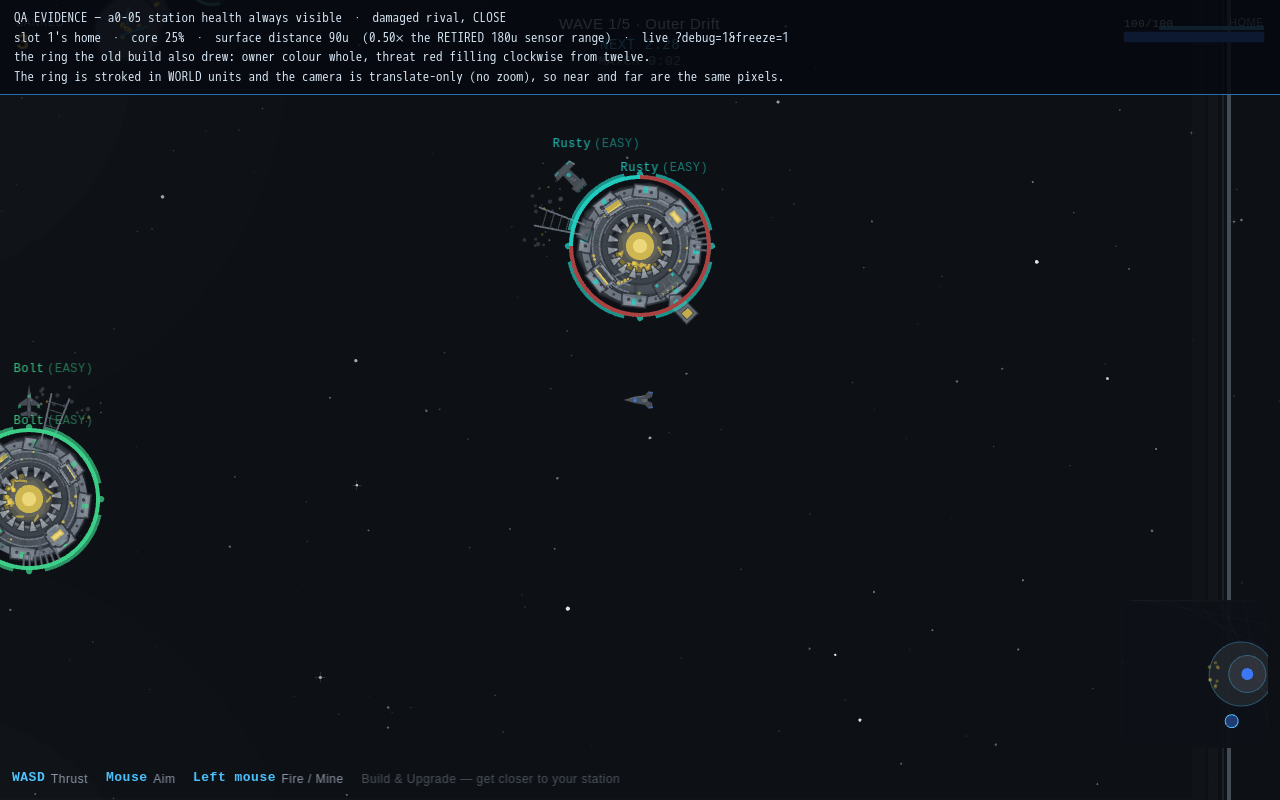
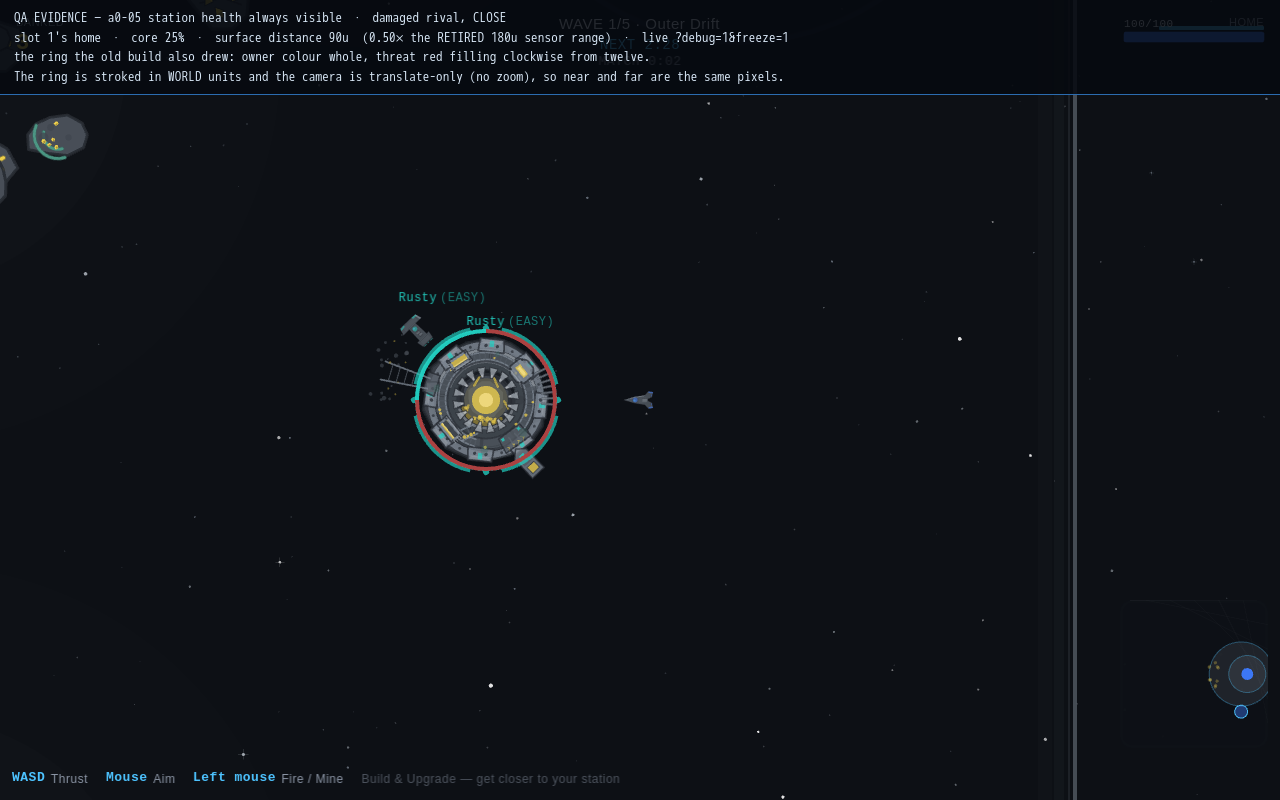
a0-05: evidence — four frames, damaged and healthy, near and far
The long-range damaged frame is the one that was lying: at 500u (2.8x
the retired 180u gate, near the far edge of what the camera reaches)
it drew no ring at all, and the always-visible beacon ring under it
read as full health. Frames 2 and 4 were the same picture.

Staged through window.__stationHealthStage on a real ?debug=1&freeze=1
boot; the seam writes only coreHp and the ship's pos, so the ring is
drawn by the shipped renderer. Per-frame geometry read back to
evidence/images/a0-05-station-health-readback.json.

Also: working notes for the branch.

diff --git a/status/notes/a0-05-station-health-always-visible.md b/status/notes/a0-05-station-health-always-visible.md
@@ -74,13 +74,86 @@ shrug.** The ring is stroked in world units at fixed width and there is no zoom
 anywhere in the render layer, so the far ring is pixel-identical to the near one.
 Asserted by instruction count in `src/render/stations.test.ts`.
 
+## BUILT (second commit — the ripple, 7bc2b1d)
+
+Seven pinned measurements moved. Each re-pointed with its reason; none deleted,
+none silently re-baselined.
+
+- **`content/codex/`** (mine per `tests/codex/codex-constants.test.ts`) —
+  `sys-fog-radar` rewritten: health always visible, the fog is over the MAP. The
+  `SENSOR_RANGE` fact is replaced by the three minimap coverage radii.
+  codex-strategy and codex-bots matched.
+- **`src/bots/hard.test.ts`** — "out of range" 700 → 1200 (past `visualRange`),
+  plus a new case reading a wounded home at 500u where the bot used to be blind.
+- **`src/bots/teams-hostility.test.ts`** — the "unread, reads healthy" home moves
+  x=2600 → x=3100 so it is genuinely off screen.
+- **`src/bots/team-winning.test.ts`** — the side-rotation check sampled 2
+  rotations × 3 seeds, and both landed on side 1. Measured 8 × 6 = 48 matches on
+  this branch first: [team0, team1] rot0 [0,6] · rot1 [1,5] · rot2 [1,5] ·
+  rot3 [1,5] · rot4 [3,3] · rot5 [6,0] · rot6 [6,0] · rot7 [0,6] — 18/48 to side
+  0. The property holds; the window was too small. Widened to all 8 rotations
+  rather than hand-picking a pair that goes green.
+- **`src/bots/ffa-parity.test.ts`** — goldens re-baselined ONCE
+  (`6d78b590`→`ed228be2`, `f358341a`→`c28d0f6b`, `210f7504`→`1c0cdaa3`), old
+  values and reasoning kept in the file. Its "do not re-baseline" rule is about
+  Stage 1 team-awareness leaking into FFA; a ratified perception amendment is a
+  different animal, and the bar is now written down as such.
+- **`tests/harness/player-aggression.test.ts`** — BOTH signs of the p15 appetite
+  A/B flipped. Re-pointed from sign to magnitude (see DECISIONS).
+- **`tests/net/rtt-decomposition.test.ts`** — two assertions compared `rttFloor`
+  against `networkFloor` (see DECISIONS).
+- **`src/main.ts`** — `__stationHealthStage`, a ?debug=1 evidence seam in the
+  pattern of its ten siblings. **Outside my ownership.**
+- **`evidence/capture-station-health-range.mjs`** + four frames.
+- Doc-comment sweep: `src/art/atlas.ts`, `src/art/stations.ts`, `src/ui/hud.ts`,
+  `src/ui/station-hp.ts`, `src/ui/minimap.ts`, `src/bots/hard.ts`,
+  `src/bots/targeting.ts`, `src/bots/personalities.ts`, `harness/strategies.ts`.
+
+## DECISIONS (second pass)
+
+**player-aggression: sign → magnitude.** Measured both arms against
+`origin/main` before touching anything. Hull damage on the human per minute
+alive: all-Hard 1.0→1.6 was 99.5→102.9 (+3.4%) on main and 106.4→99.0 (−7.0%)
+here; shipped roster was 60.2→46.0 (−23.6%) on main and 55.3→56.2 (+1.6%) here.
+Both signs flipped, and both effects are inside their own noise. Re-pointing the
+sign would ratify a *new* design conclusion, which is not mine to ratify. So the
+gate now asserts what is true under both measurements and is the Director's
+actual standing answer: the all-Hard effect is single-digit either way (|Δ| <
+12%), and the raise never meaningfully increases the fire the player draws in the
+cast they actually meet (ratio < 1.10). Both tables are recorded in the test.
+`docs/bot-player-aggression-p15.md` §3 still carries the pre-a0-05 sign and wants
+a re-measure — a Bot Engineer / Director call, deliberately not made here.
+
+**rtt-decomposition: a latent bug, not a regression.** `rttFloor >=
+networkFloor + FRAME_MS` is unsound. The ack stream samples at ~30 Hz and the
+ping probe at 2 Hz, so over a jittery wire the ack's minimum catches the low tail
+far more often and can land a frame BELOW the ping floor — the test's own comment
+names that asymmetry and then draws the opposite conclusion from it. It was one
+lucky draw from red on `main` (measured there: net 250/rtt 283 and net 283/rtt
+316 — and this branch's other client shows the clean mirror image, net 233/rtt
+250). a0-05 adds seven one-time station-health messages per client at match start
+(measured: 64 health events total across a 20 s 8-client run, then silence),
+which re-rolled the harness's seeded jitter draw and collected the debt. Both
+assertions now compare against the *configured* wire instead of a co-sampled
+floor. Flagged for the Netcode Engineer.
+
+**Rejected:** priming `FogTracker.lastSent` at construction to kill the initial
+8-station burst. It would withhold current health from a client joining
+mid-match, which is the exact failure this brief is fixing.
+
+## Cross-boundary edits, all flagged in the PR body
+
+`src/render/index.ts` + its test · `src/bots/*` · `server/static-events.ts` +
+`tests/server/*` · `tests/net/rtt-decomposition.test.ts` ·
+`tests/harness/player-aggression.test.ts` · `src/main.ts` (evidence seam) ·
+doc-comments in `src/ui/`, `src/art/`, `harness/`.
+
+The rule was enforced in three places, none of them `src/sim/`. Fixing only the
+sim would have produced a PR that changes nothing a player can see. Each edit is
+minimal and routes through the sim predicate.
+
 ## NEXT
 
-- Full `npm test -- --run` sweep — several bot tests pin distances against the old
-  180-unit gate and need re-pointing (`src/bots/hard.test.ts` uses 700 units as
-  "out of range"; `src/bots/teams-hostility.test.ts` places a home at 600 units to
-  be "unscouted"). Both cases stay valid, at bigger distances.
-- Doc-comment sweep for stale "scouted" prose in `src/ui/`, `src/art/`,
-  `src/bots/targeting.ts`, `harness/strategies.ts`.
-- Four evidence frames (damaged near/far, healthy near/far).
 - PR.
+- For the Director: the radar-satellite pricing question (facts in the PR body,
+  decision deliberately not made here) and the p15 §3 re-measure.
